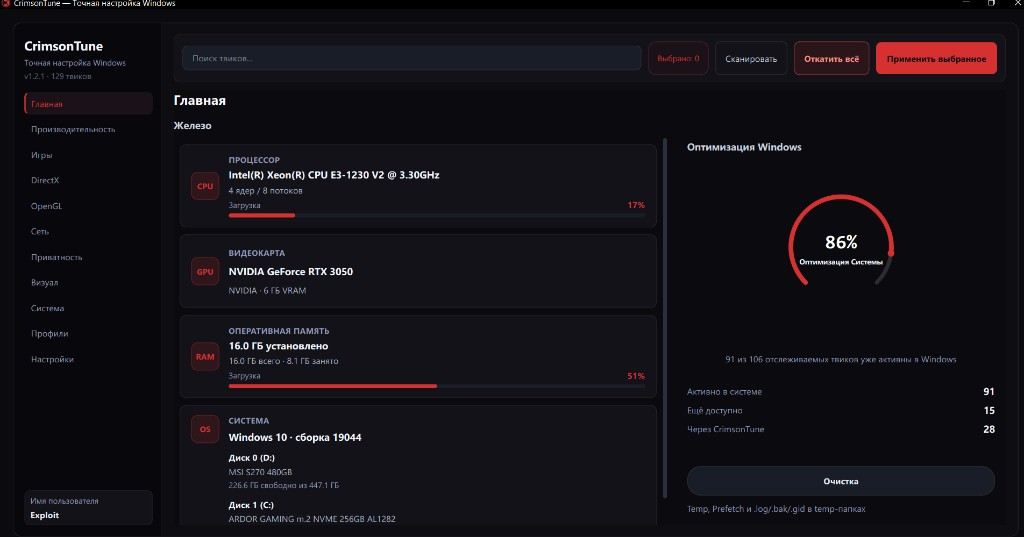
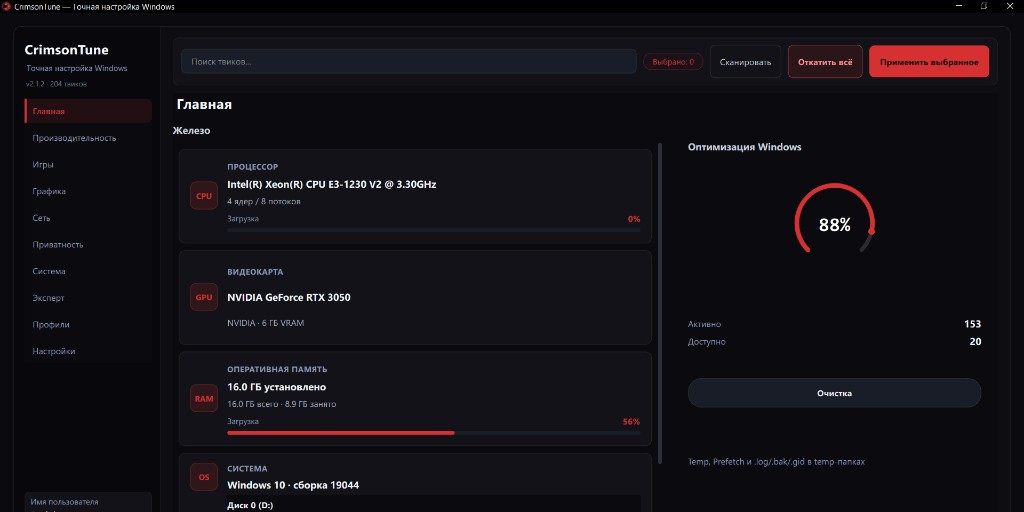
docs: update README screenshots gallery for v2.1.2

diff --git a/README.en.md b/README.en.md
@@ -39,6 +39,14 @@
   </a>
 </p>
 
+<p align="center">
+  <a href="assets/screenshots/dashboard.png">
+    <img src="assets/screenshots/dashboard.png" alt="CrimsonTune — home dashboard" width="920" />
+  </a>
+</p>
+
+<p align="center"><sub>Crimson Dark · optimization ring · smart scan · 204 tweaks</sub></p>
+
 ---
 
 ## Why CrimsonTune
@@ -152,11 +160,49 @@ End users only need the `.zip` from Releases. Two files keep PyInstaller out of 
 
 ## Screenshots
 
-<p align="center">
-  <img src="assets/screenshots/dashboard.png" alt="CrimsonTune — home dashboard" width="920" />
-</p>
-
-<p align="center"><sub>Home · CPU/GPU/RAM · optimization ring · quick cleanup</sub></p>
+<table>
+<tr>
+<td width="50%" valign="top" align="center">
+  <a href="assets/screenshots/dashboard.png">
+    <img src="assets/screenshots/dashboard.png" alt="Home" width="100%" />
+  </a>
+  <br><strong>Home</strong><br>
+  <sub>CPU · GPU · RAM · disks · 88% ring</sub>
+</td>
+<td width="50%" valign="top" align="center">
+  <a href="assets/screenshots/performance.png">
+    <img src="assets/screenshots/performance.png" alt="Performance" width="100%" />
+  </a>
+  <br><strong>Performance</strong><br>
+  <sub>SysMain · Prefetch · SSD · timer · RAM</sub>
+</td>
+</tr>
+<tr>
+<td width="50%" valign="top" align="center">
+  <a href="assets/screenshots/games.png">
+    <img src="assets/screenshots/games.png" alt="Games" width="100%" />
+  </a>
+  <br><strong>Games</strong><br>
+  <sub>Game Mode · HAGS · DVR · reboot badge</sub>
+</td>
+<td width="50%" valign="top" align="center">
+  <a href="assets/screenshots/expert.png">
+    <img src="assets/screenshots/expert.png" alt="Expert" width="100%" />
+  </a>
+  <br><strong>Expert</strong><br>
+  <sub>Xbox · UAC · mitigations · one-time actions</sub>
+</td>
+</tr>
+<tr>
+<td colspan="2" align="center">
+  <a href="assets/screenshots/settings.png">
+    <img src="assets/screenshots/settings.png" alt="Settings" width="78%" />
+  </a>
+  <br><strong>Settings</strong><br>
+  <sub>RU / EN · auto-update · registry backup · restore</sub>
+</td>
+</tr>
+</table>
 
 ---
 

diff --git a/README.md b/README.md
@@ -39,6 +39,14 @@
   </a>
 </p>
 
+<p align="center">
+  <a href="assets/screenshots/dashboard.png">
+    <img src="assets/screenshots/dashboard.png" alt="CrimsonTune — главная панель" width="920" />
+  </a>
+</p>
+
+<p align="center"><sub>Crimson Dark · кольцо оптимизации · умное сканирование · 204 твика</sub></p>
+
 ---
 
 ## Зачем CrimsonTune
@@ -152,11 +160,49 @@ pyinstaller build.spec
 
 ## Скриншоты
 
-<p align="center">
-  <img src="assets/screenshots/dashboard.png" alt="CrimsonTune — главная панель" width="920" />
-</p>
-
-<p align="center"><sub>Главная · CPU/GPU/RAM · кольцо оптимизации · быстрая очистка</sub></p>
+<table>
+<tr>
+<td width="50%" valign="top" align="center">
+  <a href="assets/screenshots/dashboard.png">
+    <img src="assets/screenshots/dashboard.png" alt="Главная" width="100%" />
+  </a>
+  <br><strong>Главная</strong><br>
+  <sub>CPU · GPU · RAM · диски · кольцо 88%</sub>
+</td>
+<td width="50%" valign="top" align="center">
+  <a href="assets/screenshots/performance.png">
+    <img src="assets/screenshots/performance.png" alt="Производительность" width="100%" />
+  </a>
+  <br><strong>Производительность</strong><br>
+  <sub>SysMain · Prefetch · SSD · таймер · RAM</sub>
+</td>
+</tr>
+<tr>
+<td width="50%" valign="top" align="center">
+  <a href="assets/screenshots/games.png">
+    <img src="assets/screenshots/games.png" alt="Игры" width="100%" />
+  </a>
+  <br><strong>Игры</strong><br>
+  <sub>Game Mode · HAGS · DVR · бейдж «перезагрузка»</sub>
+</td>
+<td width="50%" valign="top" align="center">
+  <a href="assets/screenshots/expert.png">
+    <img src="assets/screenshots/expert.png" alt="Эксперт" width="100%" />
+  </a>
+  <br><strong>Эксперт</strong><br>
+  <sub>Xbox · UAC · mitigations · разовые действия</sub>
+</td>
+</tr>
+<tr>
+<td colspan="2" align="center">
+  <a href="assets/screenshots/settings.png">
+    <img src="assets/screenshots/settings.png" alt="Настройки" width="78%" />
+  </a>
+  <br><strong>Настройки</strong><br>
+  <sub>RU / EN · автообновление · бэкап реестра · откат</sub>
+</td>
+</tr>
+</table>
 
 ---
 